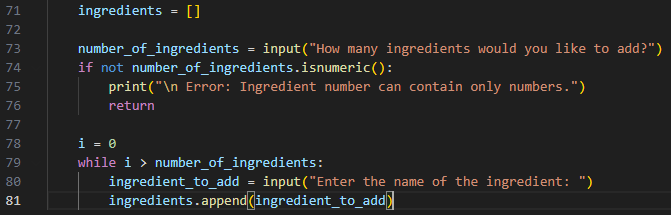
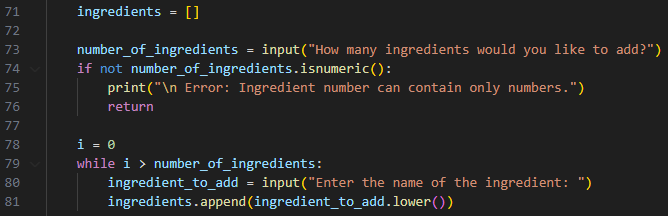
Created search_by_ingredients function

diff --git a/Exercise1.7/Main_task/recipe_app.py b/Exercise1.7/Main_task/recipe_app.py
@@ -78,7 +78,7 @@ def create_recipe():
     i = 0
     while i > number_of_ingredients:
         ingredient_to_add = input("Enter the name of the ingredient: ")
-        ingredients.append(ingredient_to_add)
+        ingredients.append(ingredient_to_add.lower())
 
     ingredients = ", ".join(ingredients)
     if len(ingredients) > 255:
@@ -105,3 +105,47 @@ def view_all_recipes():
     for recipe in all_recipes:
         print(recipe)
     
+def search_by_ingredients():
+    if session.query(Recipe).count() == 0:
+        print("There is no recipes in the database.")
+        return None
+    
+    results = []
+    
+    for recipe in session.query(Recipe).all():
+        results.extend(recipe.ingredients.split(", "))
+  
+    all_ingredients = []
+  
+    for ingredient in results:
+        if not ingredient in all_ingredients:
+            all_ingredients.append(ingredient)
+
+    for ingredient in all_ingredients:
+        print(all_ingredients.index(ingredient) + 1, "- " + ingredient)
+
+    chosen_ingredient = input("Choose the indexes of the ingredients" + 
+                               " you would like to search (separate them with a comma (,)" +
+                                 " and a space ( ) ): ").split(", ")
+    
+    for index in chosen_ingredient:
+        if not index.isnumeric():
+            print("You can only input numbers.")
+            return
+        if index > len(chosen_ingredient):
+            print("You can only select index numbers from the list")
+            return
+    
+    search_ingredients = []
+
+    for index in chosen_ingredient:
+        search_ingredients.append(all_ingredients[index-1])
+
+    conditions = []
+
+    for ingredient in search_ingredients:
+        like_term = "%" + ingredient + "%"
+        conditions.append(Recipe.ingredients.like(like_term))
+
+    for recipe in session.query(Recipe).filter(conditions).all():
+        print(recipe)
